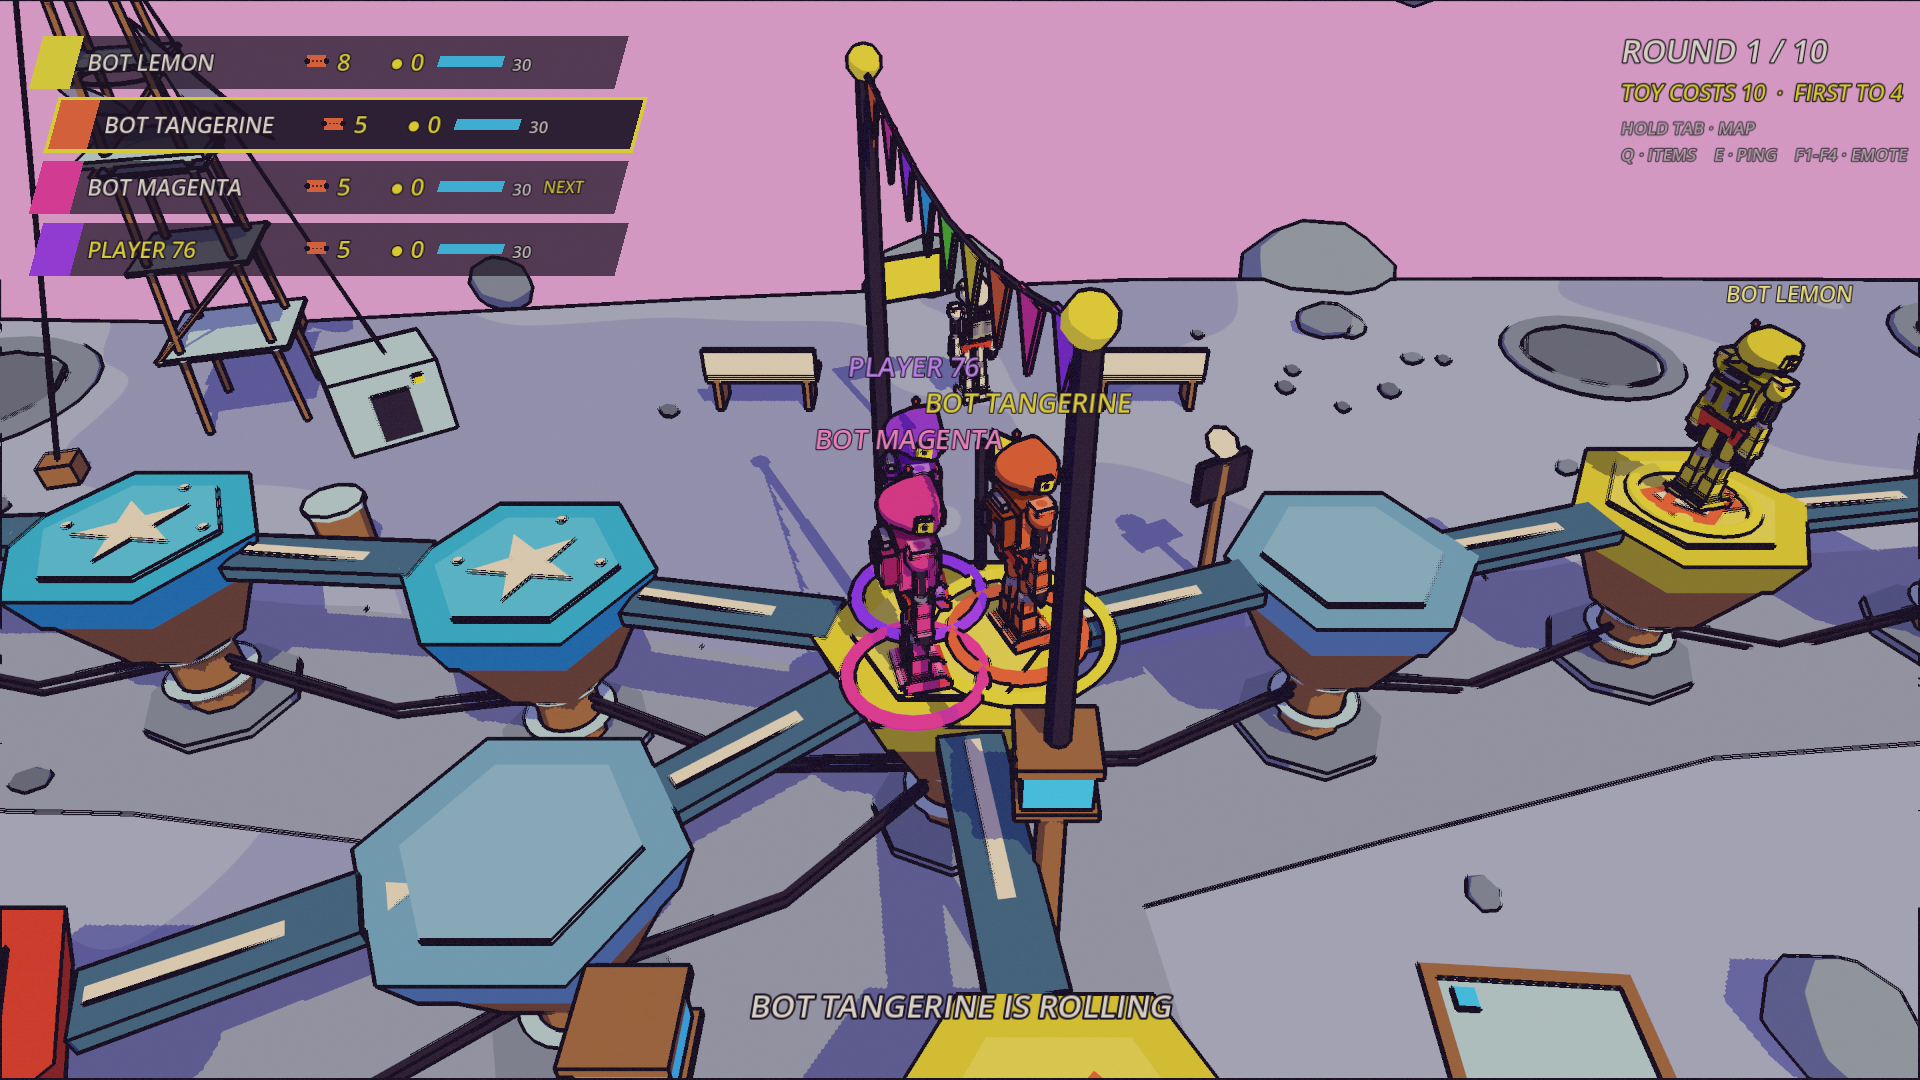
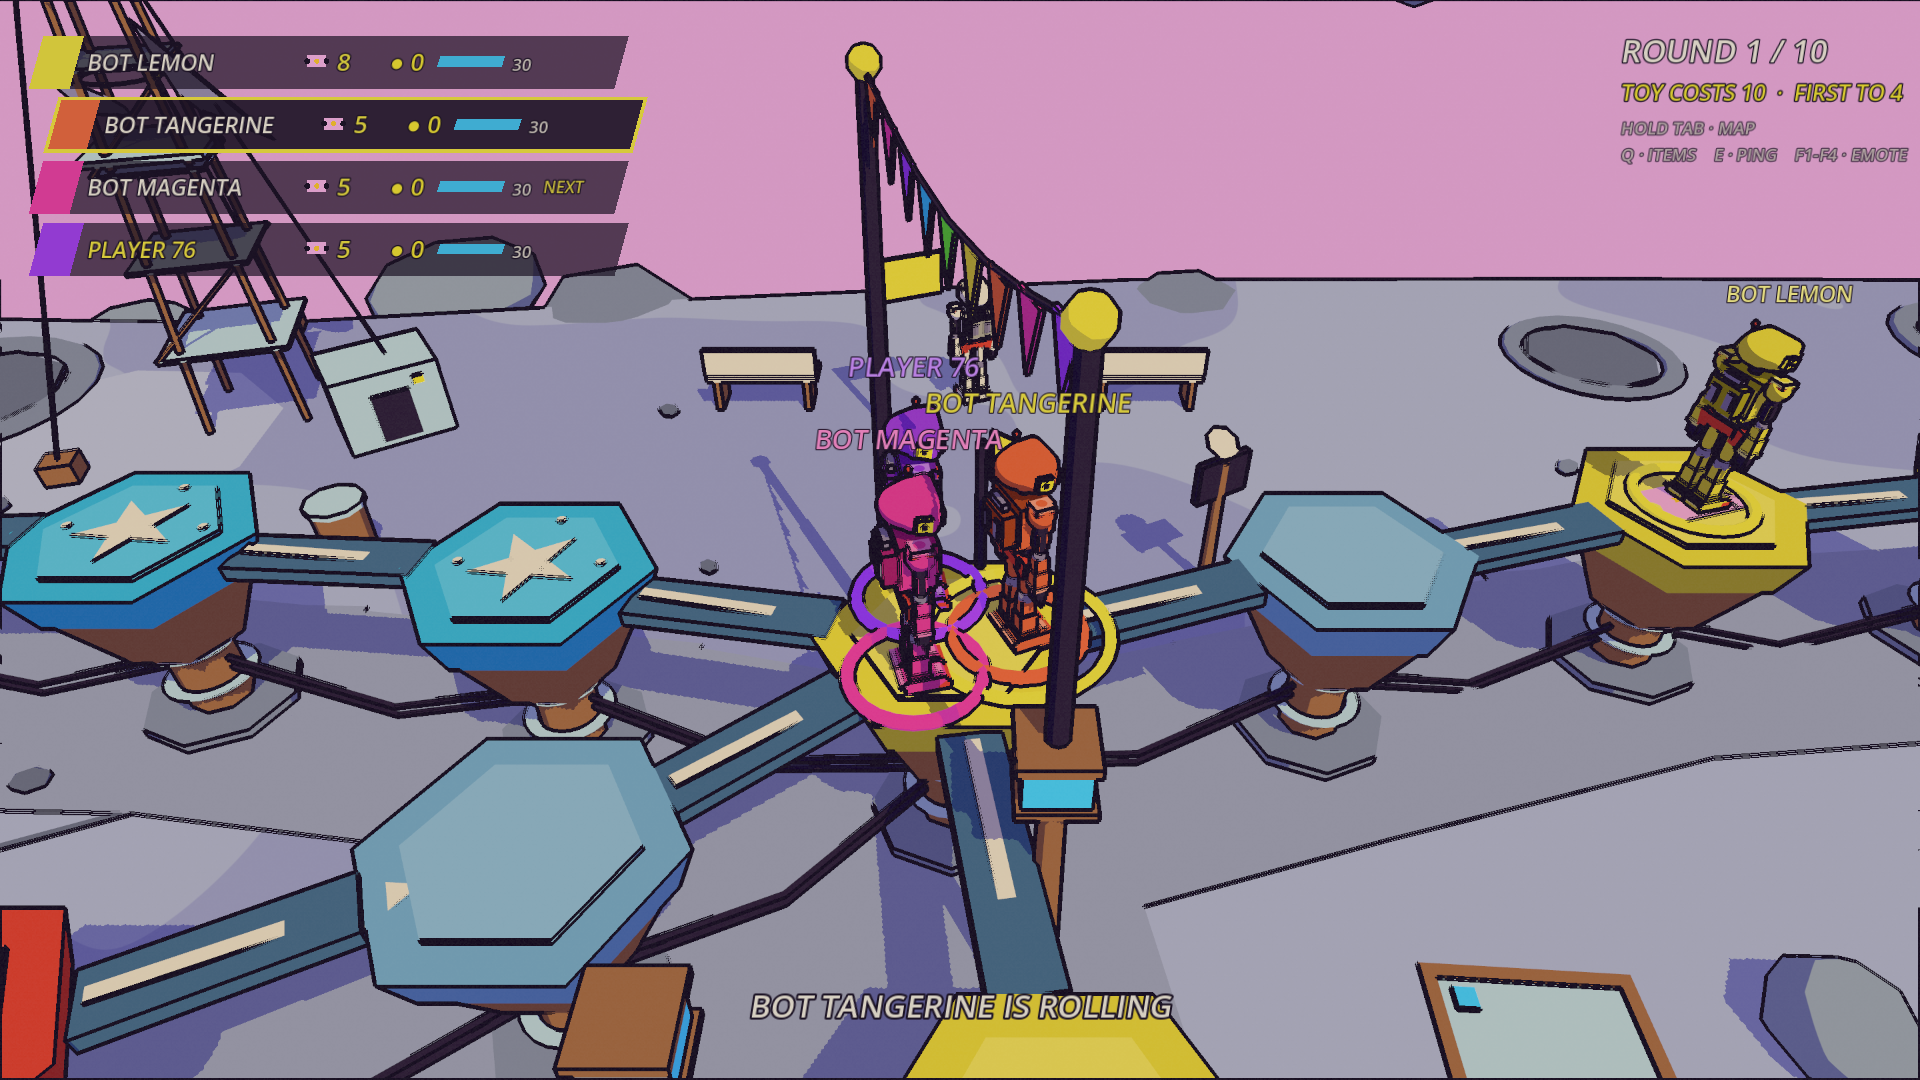
Mission control near the centre, two decorative rockets, the pink ticket with a golden maple leaf
Sean's three notes: a detailed two-storey control building east of the
greenhouses; the rocket shape as a builder, one on a lit pad in the west
margin and one on a service cradle in the rectangle; the painted ticket is
one stub in the sky's pink with a small golden maple leaf (a flat polygon),
the HUD stub to match.

diff --git a/DECISIONS.md b/DECISIONS.md
@@ -194,3 +194,4 @@ Append-only. One line per assumption: date, the decision, the reason. Newest at 
 - 2026-09-24 — Sean redrew the board by hand (`reference/board_drawing.png`: "I drew where I want the board spaces to be in blue. in black I did an arrow pointing to how I want the direction to be. when there's a fork in the road I did two arrows. I put a magenta circle along the blue path, that's where I want the start to be. the yellow things are the spawn points after people die, they should respawn back at the one that is farthest from the toy. I drew a rocket and a red circle next to the rocket and a dotted line leading to another red circle: once you run into that spot you have an option to pay 10 coins to take the rocket to the other spot, with an animation of getting in the rocket and flying and landing on the other spot"), then: "the fork choice isn't for the rockets. there's only gonna be 1 rocket on the map where I put it in the drawing". The district of the morning is gone. `tools/gen_board.gd` traces the drawing: each blue line is a polyline in the drawing's own pixels (a 1500 × 1000 image at 0.115 m a pixel, north up), sampled every 3.7 m with every junction a shared space, the arrows as the directions: the top loop east from the start and down into the rectangle, the start's second way south into the westward middle street, the middle street from the F3 junction north and west to F2, the big left loop from F2 past the rocket's landing spot round to M1, the short inner curve F2→M1, M1→F4, the lens (two arcs F4→start), the rectangle from F3 south past the rocket pad, east, north and west back to F3 with the top loop's column merging into its top edge. 127 spaces, 4 forks (the start S0, F3 = M0, F2 = M19, F4 = K3), every space reaching every other (checked), 8 routes from the start back to it of 27–93 steps (mean 60 = 13.3 turns of the d8; the inner loop through the curve and the lens is the short one, the big left loop the long one; the drawing is his, so the 20-turn lap of 2026-09-23 no longer applies), min spacing 3.15 m, longest hop 4.29 m. The safe spot sits at the bottom of the big loop, opposite the start. The slab is the rounded hull of the spaces with a 9 m margin (`MoonSlab.from_hull`: the rim's radius per degree, a third shape beside the ellipse and the superellipse, kept in the file as 360 radii); the annexes are the two yellow domes (rim angles −145° and 15°, the machine spots L31 and P18 at 9.0 / 9.1 m from their rim points; the respawn rule is unchanged: the annex that is not the live machine, which is the one farthest from the toy). THE ROCKET: the file's `shuttle` (`from` P4, the rectangle's bottom-left corner, `to` L5 on the big loop, `price` 10); `BoardRules._offer_shuttle` pauses a move that lands on or passes the pad with the fare in hand (`pending_kind` "shuttle", the options the pad and the landing spot; a "choose" event flagged `shuttle` with the price), `choose(1)` pays, moves the pawn to the landing spot without spending a step and walks the rest of the roll on from there (`choose(0)` walks on from the pad); bots fly when it brings the machine 8 hops nearer (`BOT_SHUTTLE_MIN_GAIN`). The HUD's two buttons wear NO THANKS and TAKE THE ROCKET · 10 TICKETS (left stays, right flies; the A/D keys the same), the prompt TAKE THE ROCKET FOR 10 TICKETS?; the view (the "shuttle" event) walks the rider to the rocket's foot, shrinks them in, lifts the rocket with a flickering flame in a 14 m lob with the nose leaning into the travel, the camera riding along pulled back to 2.6× its distance, sets down 2.6 m inward of the landing tile, steps the rider out with a burst, and flies the rocket home empty in the background (`_shuttle_return`; a new ride snaps it home first); the director allows 5.6 s. The rocket is the pad-and-rocket prop of 2026-09-19 (Sean: "use the rockets we had earlier, I really liked those") on a node of its own, on the "rocket" zone by the pad space with landing lights, the fuel bowser and a launch gantry with a swing arm (`_block_rocket`); there is no other rocket on the map. A `rocket` sound (a 1.6 s rumble under a sub tone) and `--rocket_test` (everyone a space before the pad with 25 tickets; with `--machine_at=L31` the bots fly). Tests: the offer, the flight (the fare paid, the steps left walked on from the landing spot), declining, no offer without the fare, the state round trip (81 tests). The four notes after it: (1) the rover and the cute things are back and more of them: the rover on its own pad with lights, drums and a toolbox inside the top loop, the crew by the flag on the plaza off the start, the probe on the park's lawn, and new in the margin a lunar lander (gold descent stage on four legs, silver cabin, a dish, a planted flag), a parked saucer on three legs with its ramp down and its pilot beside it (a green blob with big eyes and antennae, bobbing) and a tethered science balloon with an instrument box (bobbing); the blocks: HAB 2 with the comms tower inside the big loop, the farm and the crater park (the rig over the crater at 0.55 of the block, boulders on its rim) in the bay, the depot's hangar and crane and the reactor with its solar field inside the top loop and the rectangle, a solar row in the sliver under the lens; the annexes keep their pieces. (2) The emblems are part of the tile: children of the tile, on its face, still (the fork hover lift carries them): a fan of two tangerine ticket stubs with punched notches, perforations and a paper star for TICKETS, a tied mystery bag in the item colour with a billboard "?" for an item (the "present" is gone), a spiked disc set into the face for damage, the safe spot's dome on the face, the start's flag; the floating spinning markers of 2026-09-18 are gone. (3) The event space is gone: no "event" type from the generator, no teleport branch in the rules, no "?" sign, no teleport playback or pacing; the test fixture's two event spaces are blanks. (4) TICKETS, not coins: the state field, the events, the tuning keys (`start_tickets`, `space_effects.ticket`, `rewards.tickets_by_rank`, `claw.tickets_when_empty`, `death_ticket_share`), the space type `ticket`, the HUD (a tangerine stub drawn before each count), the lobby's TOY PRICE in TICKETS, the results' TICKETS, the logs; the pickup sound is an arcade machine feeding tickets out (eight clicks and a blip). Measured at 1080p on the 5090 (host + 2 bots, 12 s): GPU 0.67 ms mean / 0.97 p95, render CPU 0.76 ms, PACING 0 frames over 1.5× the median, 0 pipelines compiled while playing; the look builds over 19 frames under the wipe, the longest chunks the tile emblems (26–31 ms) and the craters and boulders (25 ms). `tools/check_all.sh` green (81 tests, determinism identical, the headless four-seat match). Frames: `board_map.png`, `board_overview.png`, `board_turn.png`, `board_fork.png`, `board_machine.png` retaken, `board_rocket_offer.png` and `board_rocket_flight.png` new, the district's two frames removed; the map frame's STYLE numbers saturated 3 %, grey 21 %, dark 4 %, v95 0.83. His verdict on all of it pending; the one thing to try in play is whether the rocket's fare and the offer on every pass through the pad feel right.
 - 2026-09-24 — Sean: "there's 127 spots? I thought we were doing around 80." The scale of the trace was mine (0.115 m a drawing pixel at the settled 3.7 m between spaces); it is 0.074 now, the whole map at 64 % of its size, the drawing unchanged: 82 spaces, the same 4 forks, 8 routes from the start back to it of 18–61 steps (mean 39.5 = 8.8 turns of the d8; the inner loop through the curve and the lens 4 turns, the big left loop 13.6), min spacing 3.09 m, longest hop 4.13 m, the rocket P2 → L3, the machine spots L19 (the left dome) and P11 (the right dome) at 9.1 / 9.0 m from their rim points. The lens arcs are pushed a few pixels apart from the drawing so the spaces on them keep 3 m between (they met the start at too narrow an angle at this scale). The blocks refitted to the smaller open spaces: HAB 2 (r 7) in the big loop, the farm (r 7) in the bay with the rocket, the rover's pad (r 4.8) and the crater park (r 4.5) in the top loop, a solar row in the rectangle; the depot (hangar, crane, cargo), the power plant (reactor, towers) and the solar sliver under the lens do not fit and are out (their builders stay for a bigger board). Measured at 1080p on the 5090 (host + 2 bots, 12 s): GPU 0.62 ms mean / 0.63 p95 (the 127-space trace 0.67 / 0.97), render CPU 0.73 ms, PACING 1 frame of 1614 over 1.5× the median, 0 pipelines compiled while playing; the look builds over 19 frames, the longest chunk the annexes at 18–23 ms. `tools/check_all.sh` green (81 tests, determinism identical, the headless four-seat match). All seven board frames retaken; the map frame's STYLE numbers saturated 4 %, grey 24 %, dark 5 %, v95 0.83.
 - 2026-09-24 — Sean's six notes, each scoped to its object, then "switch back to the previous map with 127 spaces": the trace is at 0.115 m a pixel again (the 82-space board of the note before lasted one commit; the arcs, blocks and ids are the 127 board's: the rocket P4 → L5, the spots L31 and P18, routes 27–93 steps). (1) "was that the same mars rover as before? the other one seemed different": there were two, the parked buggy of the first moon pass (2026-09-19: a box body and cab on four wheels) and the driving buggy of the detail pass (2026-09-20: a panel, an antenna light, hubs); one design now, the driving one's plus a cab window and a little dish (`BoardDressing._rover`), parked on the rover's pad and driving the rim road; the view's buggy prop is gone. (2) A radio tower (`_block_radio`: a tapering lattice mast with cross braces, three ring antennas up it, a platform with a big dish and a small one, guy lines to anchor blocks, a cabin, a red light on top and a cyan one half way), two of them in the margin (behind the start, and at the bottom-right corner), and with them a crashed satellite (nose-down, a panel bent up, a dish askew, a scorch mark, debris, a dying light), a rock arch (two boulders with a slab across, along the rim), a telescope dome with instrument boxes: all zones from the generator, in the margin at 0.93 of the way out. (3) The emblems are painted on the tile (his: "the events on the spots (item, tickets, damage) they should be painted on the tile"): flat pieces 5 cm over the face, children of the tile, still; tickets two tangerine stubs with notches punched in the inset's tone, a perforation and a label band; damage an ink mine with eight points on a paper disc; the item a paper five-point star with three sparkles (his: "the white question mark is ugly. think of something else"; the bag is gone); and the new HEALTH spot (his: "add a green spot for a health tile, it restores 6 HP. it can be like a green med bag icon"): a green tile (`board.heal` in the palette, HSV 128° 0.52 0.74), a paper med bag with a handle and a green cross, `space_effects.heal` 6 restored on landing up to the full bar (`_land`, a "heal" event, a "+6 HP" label, a two-note chime), 12 of the 127 spaces (10 % of the main streets' mix), tested. The safe spot keeps its dome and the start its flag. (4) The space station (his: "in the bottom middle part of the map, to take up space. spend a lot of time to make it look detailed"): the slab bulges there (two ground points at z 36 join the hull, `STATION_GROUND`), and on a plated apron with paint lines stand a hub on a plinth with two bands, eight windows, a glass cupola on six struts, a mast with a red light and an airlock marked LAB 1; a ring corridor on four spokes with collars and twelve windows; four modules on the ring's diagonals with end caps and windows, one the docking module with a hatch ring and a green airlock light, one with a roof rail; two framed solar wings on a boom through the hub with lights at their tips; a radar dish turning on its stand (`_spinners`); a fuel tank on a pipe with a valve wheel; ten landing lights round the apron (`_block_station`, the zone at (−8, 34), r 6.5). (5) The status rows are 500 px (were 600) with the steps-to-the-machine count gone (his: "you don't need to put '41 to'"), the name at 18 px with 180 px of room (the ticket stub had sat on BOT TANGERINE's tail), the HP bar, its number, NEXT and the item chips moved up. Measured at 1080p on the 5090 (host + 2 bots, 12 s): GPU 0.63 ms mean / 0.65 p95, render CPU 0.74 ms, PACING 0 frames over 1.5× the median, 0 pipelines compiled while playing. `tools/check_all.sh` green (82 tests, determinism identical, the headless four-seat match). Frames: the seven board frames retaken, `board_station.png` and `board_radio.png` new; the map frame's STYLE numbers saturated 3 %, grey 21 %, dark 4 %, v95 0.83. His verdict pending.
+- 2026-09-24 — Sean's three notes, each scoped to its object. (1) "add another structure near the center, like a space themed building, add detail": MISSION CONTROL (`BoardDressing._block_control`, the "control" zone east of the greenhouses at (13, 0.5) m, r 4.2): two storeys on a plinth, a window band round the ground floor, the upper floor set back with a wide front window and a railed roof, stairs up the side with a rail, an airlock with a CONTROL sign and a lit lamp, a big dish on a mount, two masts with red and cyan lights, a radar bar turning on the roof, floodlight masts at the front corners, a flag. (2) "a couple more rockets around the map, they will just be decoration": the taxi's shape as a builder at a scale (`_rocket_prop`), one standing on a small lit pad in the west margin (160°, 0.945 of the way out: at 0.93 it sat 4.1 m from L16) and one lying on a service cradle inside the rectangle with a ladder against it, a toolbox and a hose (`_block_rocket_pad`, `_block_rocket_cradle`); the pad rocket had first gone to the east margin, 10 m from the cradle one, so it moved. (3) "change the ticket on the spot to just 1 ticket and make it pink, same color as the sky. and try to put a maple leaf on the ticket, a small golden one": one stub now, the sky's pink (`board.sky_bottom`), the punched notches and the perforation kept, and a small golden maple leaf (HSV 44° 0.8 0.88) painted on it as a flat polygon (`MAPLE_LEAF`, 29 points, triangulated with Geometry2D and built both windings, `_flat_polygon`); the HUD's stub is the same pink with a golden dot for the leaf at that size. Measured at 1080p on the 5090 (host + 2 bots, 12 s): GPU 0.62 ms mean / 0.64 p95, render CPU 0.68 ms, PACING 0 frames over 1.5× the median. `tools/check_all.sh` green (82 tests, determinism identical, the headless four-seat match). Frames: `board_control.png`, `board_rocket_cradle.png`, `board_ticket.png` new; the map, overview and turn frames retaken. His verdict pending.

diff --git a/CLAUDE.md b/CLAUDE.md
@@ -51,12 +51,13 @@ that travels with the repo.
   on the map, on its pad by the pad space (his: "there's only gonna be 1 rocket"): reaching that space with
   10 tickets offers a flight to the landing spot (its own prompt, not a fork). The currency is TICKETS, like
   an arcade's (not coins). No teleport ("event") space. The spaces' emblems are PAINTED ON THE TILE, still
-  (his notes: nothing hovering, then "painted on the tile"): two ticket stubs, a star for an item (the "?" bag
-  was ugly, his word), a mine for damage, a med bag for the HEALTH spot (+6 HP, a green tile, his ask). ONE
+  (his notes: nothing hovering, then "painted on the tile"): ONE PINK TICKET (the sky's pink) with a small GOLDEN
+  MAPLE LEAF on it (his ask), a star for an item (the "?" bag was ugly, his word), a mine for damage, a med bag for the HEALTH spot (+6 HP, a green tile, his ask). ONE
   rover design (the driving buggy's), parked on its pad and driving the rim. The SPACE STATION at the bottom
   middle is his ask ("to take up space... detailed"): keep it. Cute space things stay (the crew, the saucer
   and its pilot, the lander, the balloon, the radio towers, the crashed satellite, the rock arch, the
-  telescope, the drone, the orbiting station, the freighter). The status rows are 500 px with no steps-to-
+  telescope, the two decorative rockets, mission control near the centre, the drone, the orbiting station,
+  the freighter). The status rows are 500 px with no steps-to-
   machine count (his: "you don't need to put '41 to'"). Pink sky kept, moon-base theme under it, close Pummel-Party camera on ONE fixed heading (south of the pawn looking north, whichever way it
   travels; 2026-09-23), eight-sided die, no water.
   The vending machine lives on the two annexes only (his "original two spots", the bridges to the

diff --git a/BOARDPLAN.md b/BOARDPLAN.md
@@ -93,8 +93,8 @@ right click puts any of them away; the portal picks a player.
 - Spaces are six-sided floating tiles (cel material by type: blank in the field colour, ticket
   in LEMON, lose in the danger red, item in LAGOON, goal in paper with a ring), ink outlines
   from the post pass, the swirl sky. Each special space's emblem is painted on the tile
-  (2026-09-24): two ticket stubs, a star for an item, a mine for damage, a med bag for the health
-  spot; the safe spot keeps its dome, the start its flag. The board palette is its own map entry.
+  (2026-09-24): one pink ticket with a small golden maple leaf, a star for an item, a mine for
+  damage, a med bag for the health spot; the safe spot keeps its dome, the start its flag. The board palette is its own map entry.
 - Pawns are the same capsule-and-head silhouette as the arena, in identity colours, hopping
   space to space (`board.hop_seconds` per step) with a small burst on landing.
 - Camera: third person behind and above the active pawn, easing between pawns on turn change,

diff --git a/README.md b/README.md
@@ -58,7 +58,7 @@ machine spot, and a bridge runs from the space to the annex); pass or land on th
 10 tickets and a toy pops out, then the machine moves to the other annex. First to 4 toys wins
 on the spot (the host sets FIRST TO, TURN TIME, ROUND CAP and TOY PRICE in the lobby's MATCH
 SETTINGS; `--toys_to_win=N`, `--toy_price=N`, `--machine_at=ID` and `--rocket_test` in the
-harness). Spots, their emblems painted on the tile: tickets (+3, two stubs), item (a star: bomb,
+harness). Spots, their emblems painted on the tile: tickets (+3, one pink ticket with a golden maple leaf), item (a star: bomb,
 portal, shield, the laser gun or the claw), damage (−3 tickets, a mine), health (+6 HP, a med
 bag on a green tile), and one safe spot
 (cyan dome) that hands out a SHIELD, a glowing aura that eats the next bomb, damage spot, laser

diff --git a/STATUS.md b/STATUS.md
@@ -895,6 +895,10 @@ identical, the headless four-seat board match on the new board.
   and the **space station** at the bottom middle on its own bulge of slab (hub, ring corridor, four
   modules, solar wings, a turning radar dish, a fuel tank, landing lights). The status rows are
   500 px, no steps-to-machine count.
+- **Three more notes**: mission control near the centre (two storeys, a dish, masts, a radar bar,
+  a CONTROL sign), two decorative rockets (one standing on a pad in the west margin, one lying on
+  a cradle in the rectangle), and the ticket repainted as one pink stub with a small golden maple
+  leaf (the HUD stub to match).
 
   | BOMBA BAY | district (morning) | drawn (evening) |
   |---|---|---|
